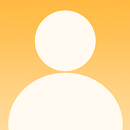
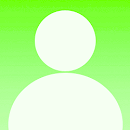
Orange to green
Sur demande express de Shy', c'est pas moi !

diff --git a/public/css/style.css b/public/css/style.css
@@ -69,7 +69,7 @@ body > nav a, body > nav a:visited {
 }
 
 body > nav a:hover {
-	color: #D78B27;
+	color: #579932;
 }
 
 .leftnav_button {
@@ -86,7 +86,7 @@ body > nav input {
 
 /*Main header*/
 body > header {
-	background-color: #ffb127;
+	background-color: #70c641;
 	height: 145px;
 	padding-top: 60px;
 	margin-left: 40px;
@@ -106,7 +106,7 @@ body > header a, body > header a:visited {
 
 body > header a:hover {
 	background-color: #fff;
-	color: #ffb127;
+	color: #70c641;
 }
 
 /*Main container*/
@@ -133,7 +133,7 @@ body > section {
 .main-container a, .main-container a:visited {
 	text-decoration: none;
 	font-weight: bold;
-	color: #D78B27;
+	color: #579932;
 	border-bottom: 1px solid;
 	border-color: rgba(215, 139, 39, 0);
 	transition: border-color 200ms;
@@ -287,7 +287,7 @@ form .group-inputs label {
 form .group-inputs input:focus + label,
 form .group-inputs textarea:focus + label,
 form .group-inputs select:focus + label {
-	color: #D78B27;
+	color: #579932;
 }
 
 .preview-container {
@@ -338,9 +338,9 @@ button:active, input[type="button"]:active, .button:active {
 
 button.orange, input[type="button"].orange, .button.orange {
 	color: #fff;
-	background-color: #ffb127;
-	border-bottom: 2px solid #D78B27;
-	box-shadow: inset 0 -2px #D78B27;
+	background-color: #70c641;
+	border-bottom: 2px solid #579932;
+	box-shadow: inset 0 -2px #579932;
 }
 
 /* Infos messages */
@@ -387,8 +387,8 @@ button.orange, input[type="button"].orange, .button.orange {
 }
 
 .info_messages.warning {
-	color: #D78B27;
-	border-color: #D78B27;
+	color: #579932;
+	border-color: #579932;
 	background-color: #FAECD2;
 }
 
@@ -431,7 +431,7 @@ button.orange, input[type="button"].orange, .button.orange {
 }
 
 .gallery .gallery-link:hover {
-	border-color: #D78B27;
+	border-color: #579932;
 }
 
 .gallery .gallery-link.folder {
